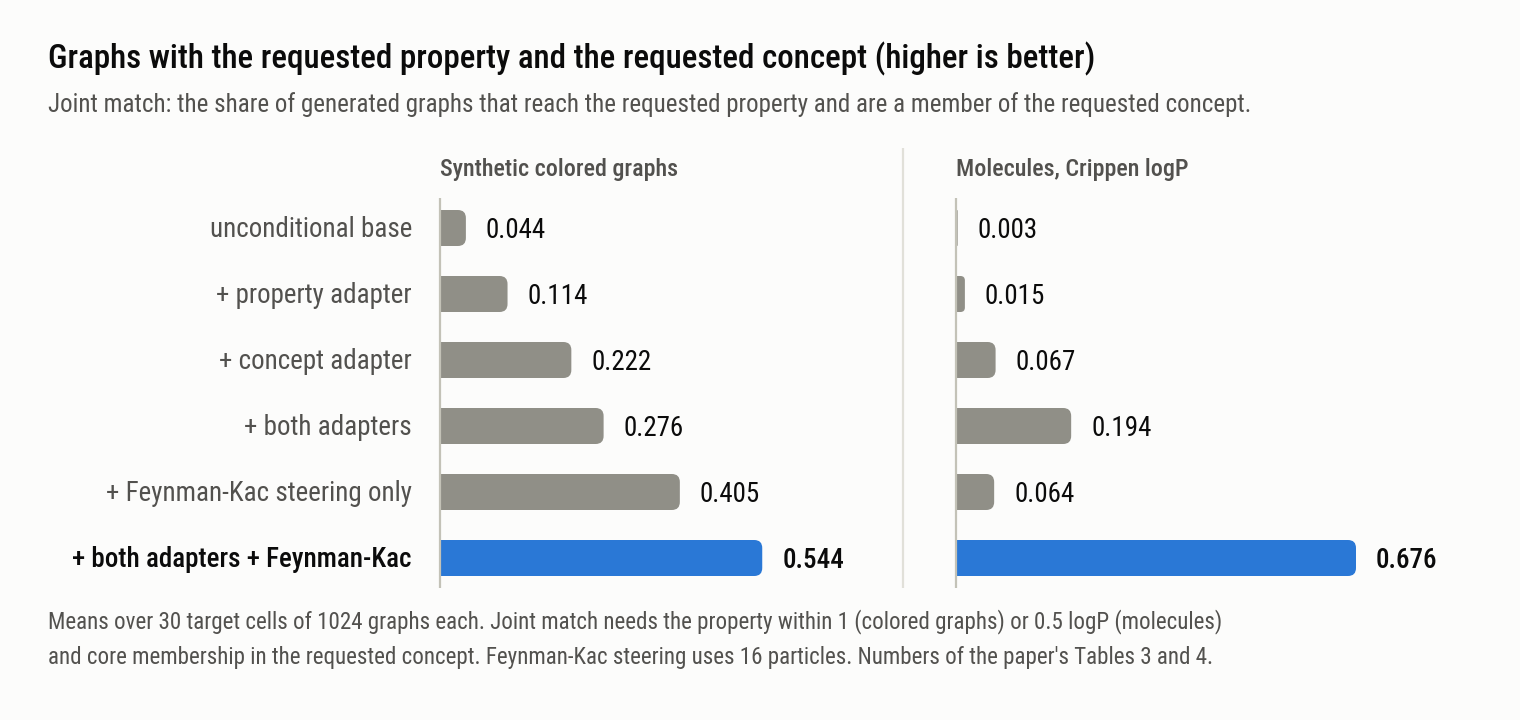
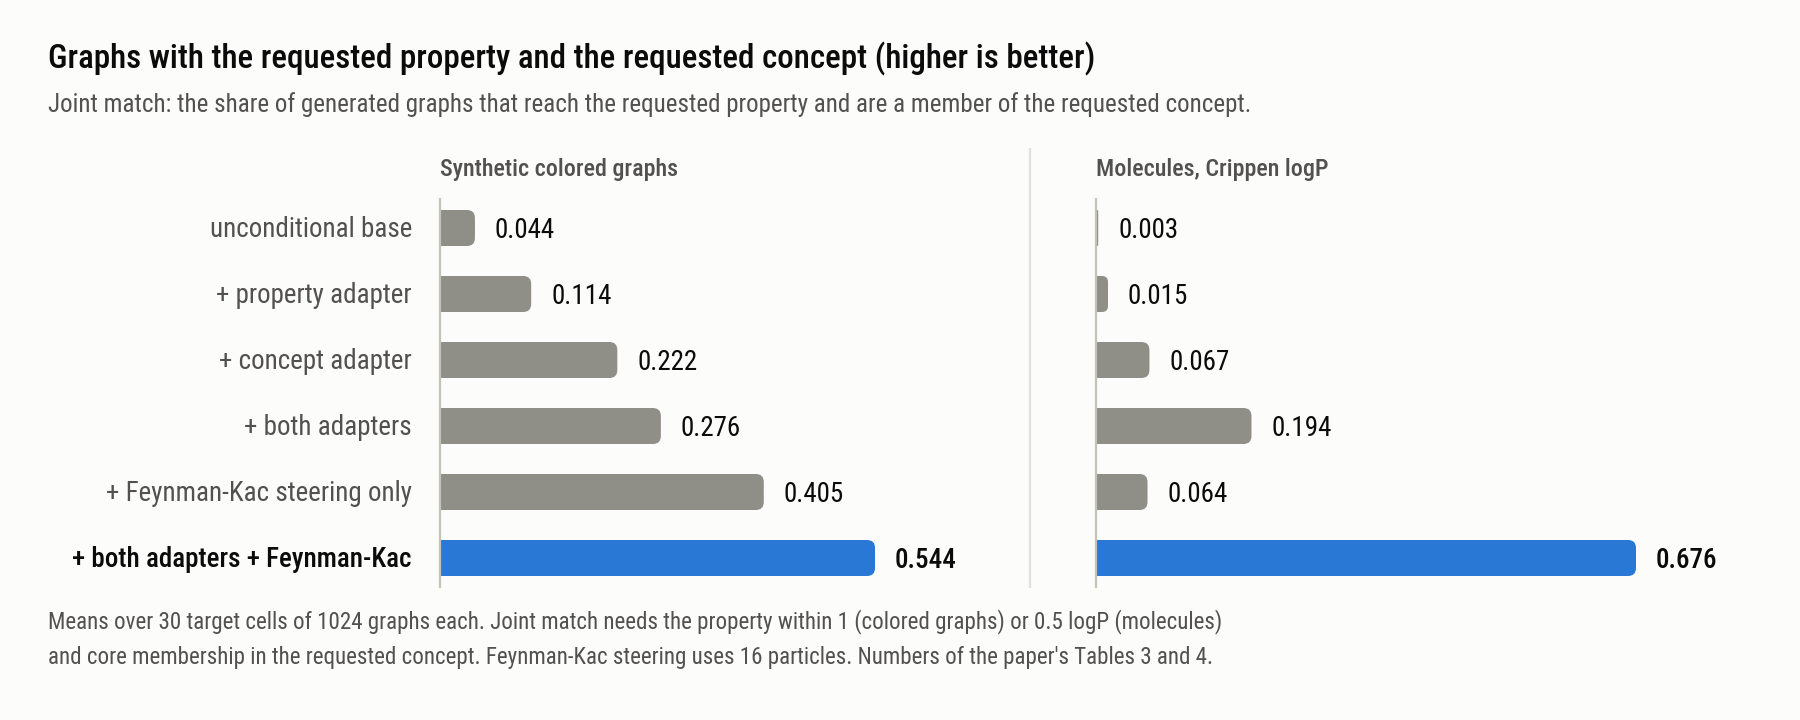
README: the results chart fills the page width
The chart was set to a fixed 760 px and floated in the middle of a wider column. It now
uses the full width, and its canvas is 900 px wide instead of 760, so the extra width goes
to longer bars and the text stays close to its designed size.

diff --git a/docs/assets/results.py b/docs/assets/results.py
@@ -37,11 +37,12 @@ THEMES = {
 }
 FONT = "Roboto Condensed"
 
-W = 760                                              # canvas width in "1x" pixels; the file is written at 2x
+W = 900                                              # canvas width in "1x" pixels; the file is written at 2x. The README
+                                                     # shows it at the full width of the page, about 830 to 1000 px
 LEFT = 24
 LABEL_X = 206                                        # the arm labels end here: one column for both groups
-COL_X = (220, 478)                                   # where each group's bars start (its baseline), left to right
-MAX_BAR = 200                                        # the longest bar, in px
+COL_X = (220, 548)                                   # where each group's bars start (its baseline), left to right
+MAX_BAR = 270                                        # the longest bar, in px
 VALUE_GAP, VALUE_W = 10, 34                          # a bar's value label: the gap after the bar and its width
 PITCH, THICK, RADIUS = 33, 18, 4
 HEADER_TO_ROW = 26                                   # the groups' header baseline to the centre of the first row

diff --git a/README.md b/README.md
@@ -59,7 +59,7 @@ scorers reproduce the paper's numbers exactly; the code warns once if another re
 <p align="center">
   <picture>
     <source media="(prefers-color-scheme: dark)" srcset="docs/assets/results_dark.png">
-    <img src="docs/assets/results.png" alt="Bar chart of the joint match rate of six approaches on two experiments, higher is better. On synthetic colored graphs it rises from 0.044 for the unconditional base to 0.544 for both adapters with Feynman-Kac steering. On molecules it rises from 0.003 to 0.676." width="760">
+    <img src="docs/assets/results.png" alt="Bar chart of the joint match rate of six approaches on two experiments, higher is better. On synthetic colored graphs it rises from 0.044 for the unconditional base to 0.544 for both adapters with Feynman-Kac steering. On molecules it rises from 0.003 to 0.676." width="100%">
   </picture>
 </p>
 
